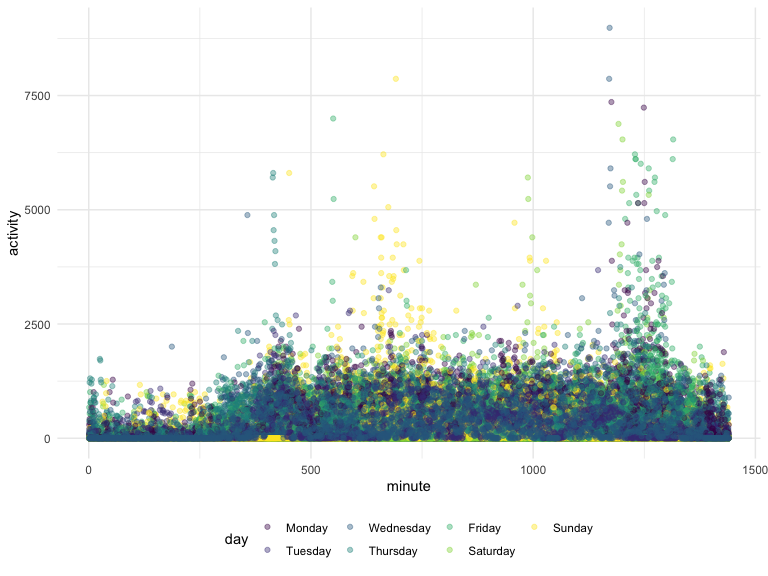
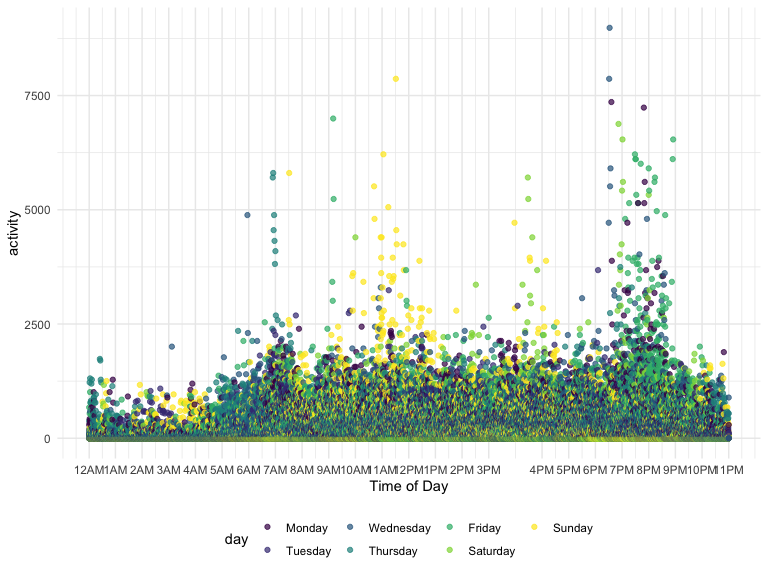
Grouping minutes into hours on x axis for last plot, problem 3

diff --git a/p8105_hw3_sm4594.md b/p8105_hw3_sm4594.md
@@ -284,7 +284,7 @@ accel_data %>%
   select(week, day, total_activity) %>% 
   distinct(.keep_all = TRUE) %>% 
   arrange(week, day) %>% 
-  knitr::kable(format = 'pandoc', caption = "Table 5. Total Activity by Day and Week")
+  knitr::kable(format = 'pandoc', caption = "Table 4. Total Activity by Day and Week")
 ```
 
 | week | day       | total\_activity |
@@ -325,7 +325,7 @@ accel_data %>%
 |    5 | Saturday  |         1440.00 |
 |    5 | Sunday    |       138421.00 |
 
-Table 5. Total Activity by Day and
+Table 4. Total Activity by Day and
 Week
 
 ``` r
@@ -336,9 +336,12 @@ Week
 
 ``` r
 accel_data %>%
-  ggplot(aes(x = minute, y = activity)) + geom_point(aes(group = day, color = day), alpha = 0.4) + geom_smooth(aes(group = day, color = day, se = FALSE))
+  arrange(minute) %>% 
+  ggplot(aes(x = minute, y = activity)) + geom_point(aes(color = day), alpha = 0.7) + scale_x_continuous(
+    name = "Time of Day", 
+    breaks = c(1, 60, 120, 180, 240, 300, 360, 420, 480, 540, 600, 660, 720, 780, 840, 900, 1020, 1080, 1140, 1200, 1260, 1320, 1380, 1440),
+    labels = c("12AM", "1AM", "2AM", "3AM", "4AM", "5AM", "6AM", "7AM", "8AM", "9AM", "10AM", "11AM", "12PM", "1PM", "2PM", "3PM", "4PM", "5PM", "6PM", "7PM", "8PM", "9PM", "10PM", "11PM")
+  )
 ```
-
-    ## `geom_smooth()` using method = 'gam' and formula 'y ~ s(x, bs = "cs")'
 
 <img src="p8105_hw3_sm4594_files/figure-gfm/24hr_activity_plot-1.png" width="90%" />
